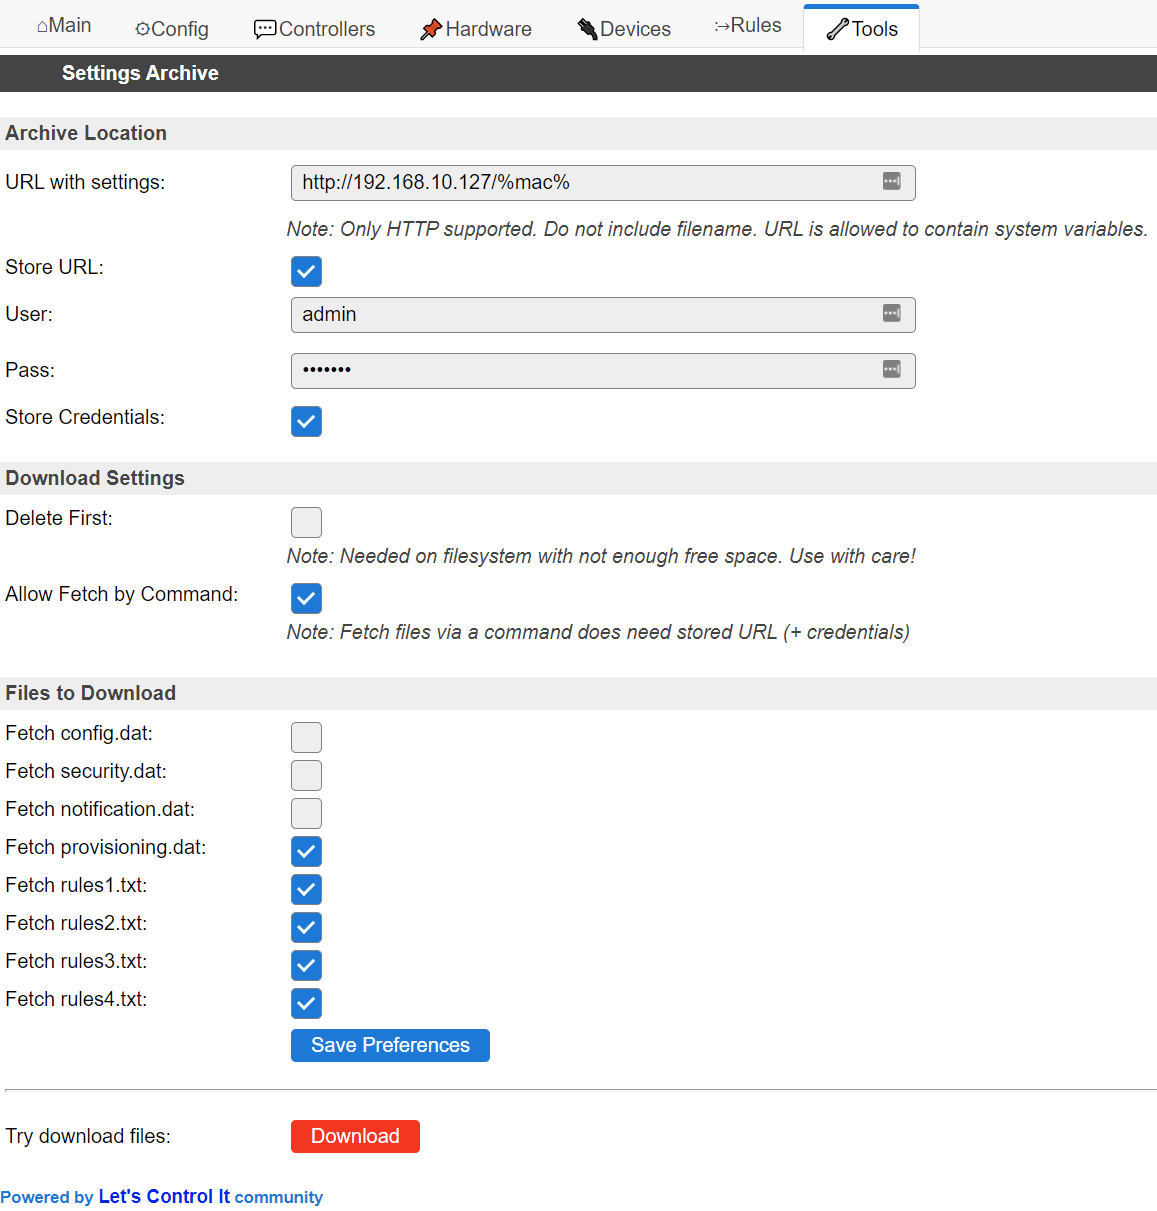
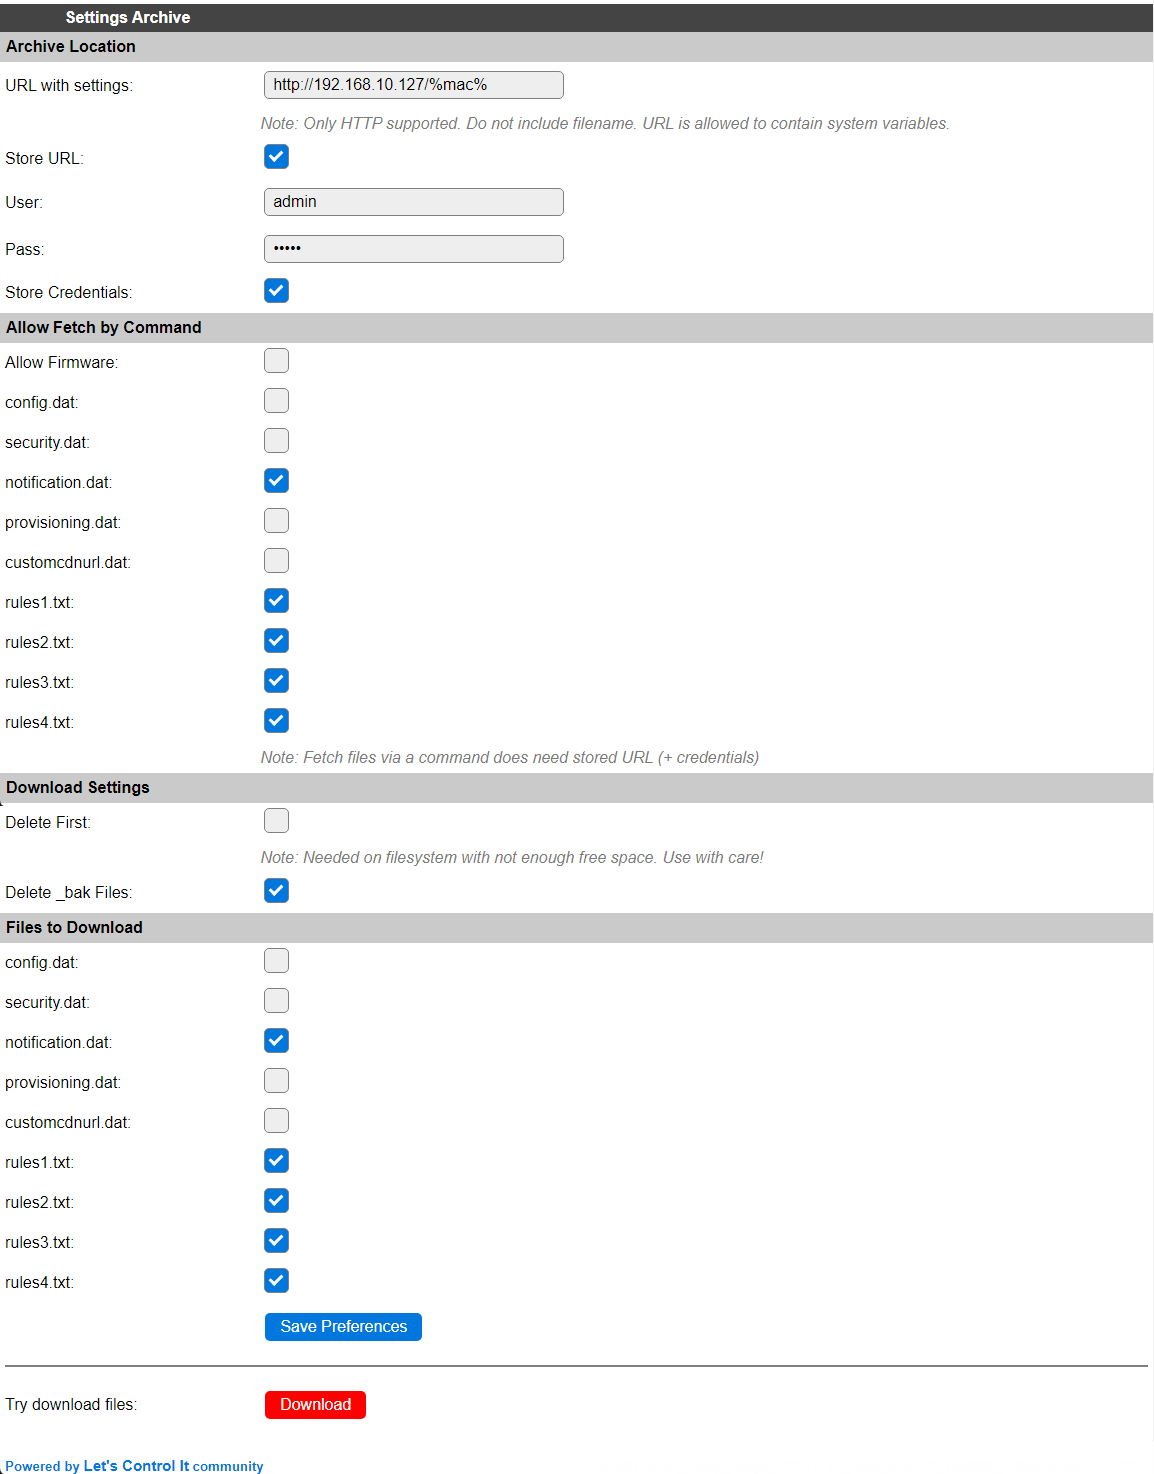
[CDN] Update documentation

Changed region(s): [[0.0, 0.0, 1.0, 1.0], [0.6863, 0.4583, 0.7799, 0.4889]]

diff --git a/docs/source/Tools/Tools.rst b/docs/source/Tools/Tools.rst
@@ -1043,13 +1043,13 @@ See the ``Custom-sample.h`` file for some examples.
 Allow Fetch by Command
 ----------------------
 
-This checkbox allows provisioning via commands.
-These commands are not restricted, so they can also be given via HTTP or MQTT.
+This list of checkboxes per file allows provisioning via commands.
+These ``Provision*`` commands are not restricted, so they can also be given via HTTP or MQTT.
 
 However, they can only be executed when:
 
-* Allow Fetch by Command is enabled
-* the file to download is checked
+* the file at Allow Fetch by Command is checked
+* the file at Files to Download is *also* checked
 * URL (+ optional credentials) is stored
 
 The commands are:
@@ -1060,3 +1060,4 @@ The commands are:
 * ``ProvisionNotification`` Fetch ``notification.dat``
 * ``ProvisionProvision`` Fetch ``provisioning.dat``
 * ``ProvisionRules,1`` Fetch ``rules1.txt``
+* ``ProvisionCustomCdnUrl`` Fetch ``customcdnurl.dat`` (When the Custom CDN Url feature is included in the build.)
